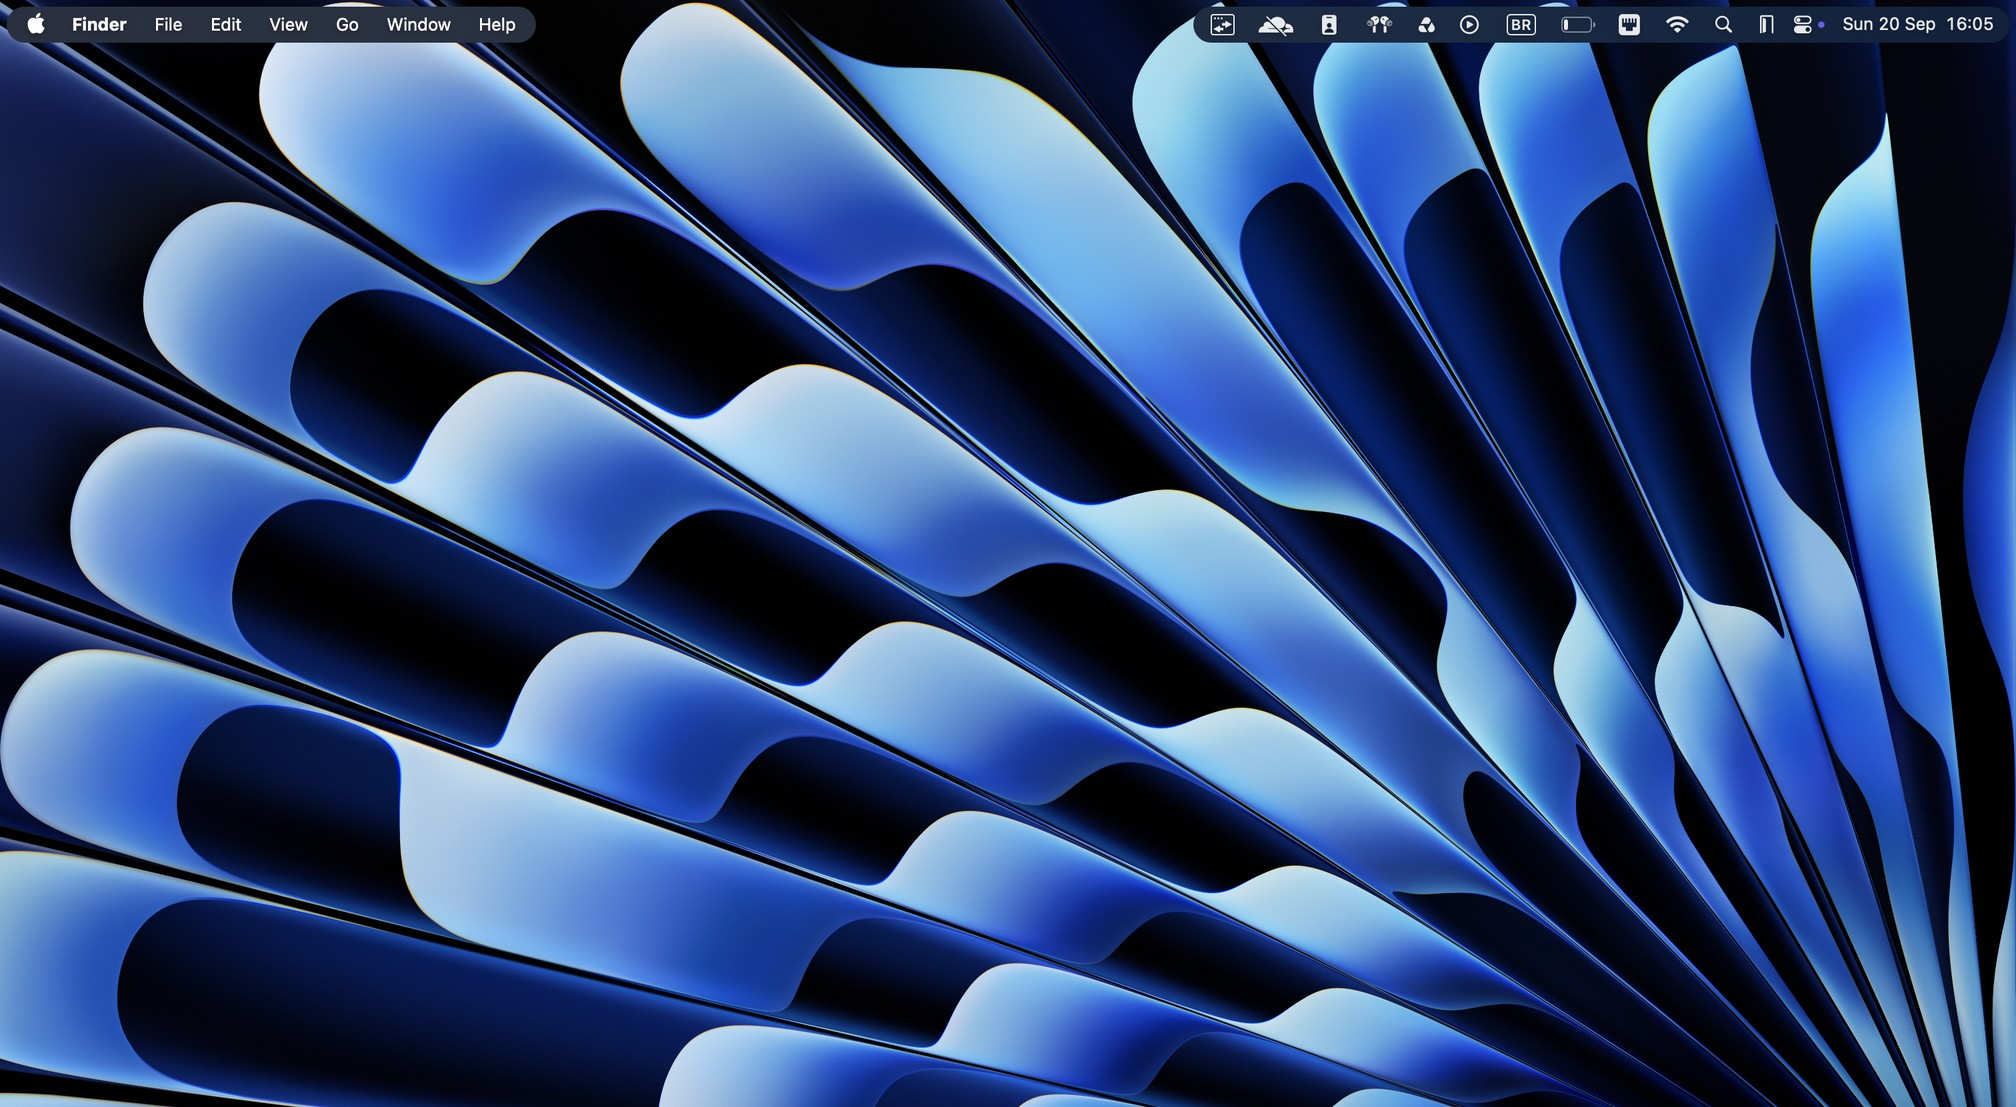
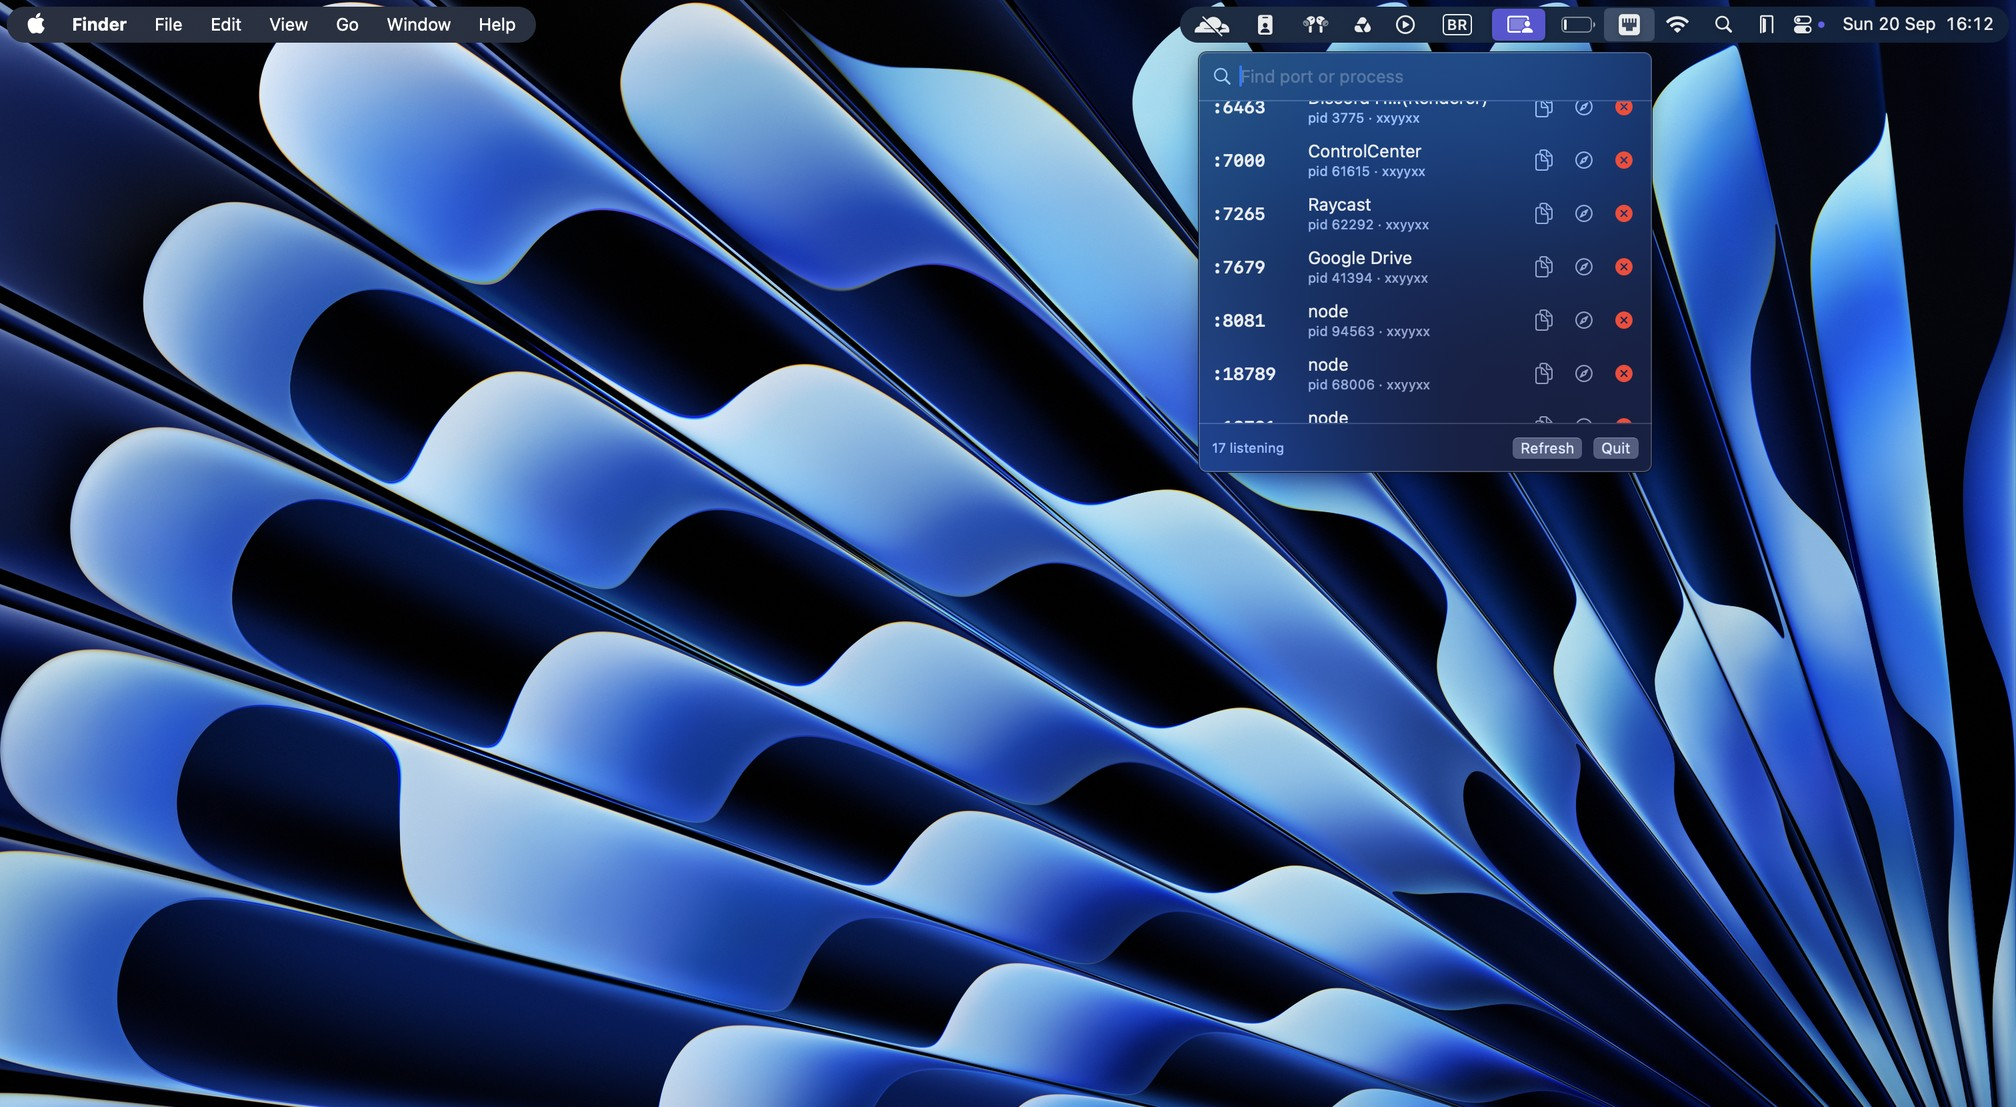
Show the port list in the README screenshot

Changed region(s): [[0.5625, 0.0, 0.8438, 0.4607]]

diff --git a/README.md b/README.md
@@ -12,7 +12,7 @@ Find, open and kill listening ports in a couple of clicks — so you can go back
 [![License: MIT](https://img.shields.io/badge/license-MIT-blue.svg)](LICENSE)
 ![macOS 13+](https://img.shields.io/badge/macOS-13%2B-black?logo=apple)
 
-<img src="images/showcase-unport-mac.jpg" alt="Unport's ethernet port icon sitting in the macOS menu bar" width="820">
+<img src="images/showcase-unport-mac.jpg" alt="Unport's menu bar popover listing listening ports with their process and pid, each with copy, open and kill buttons" width="820">
 
 </div>
 
